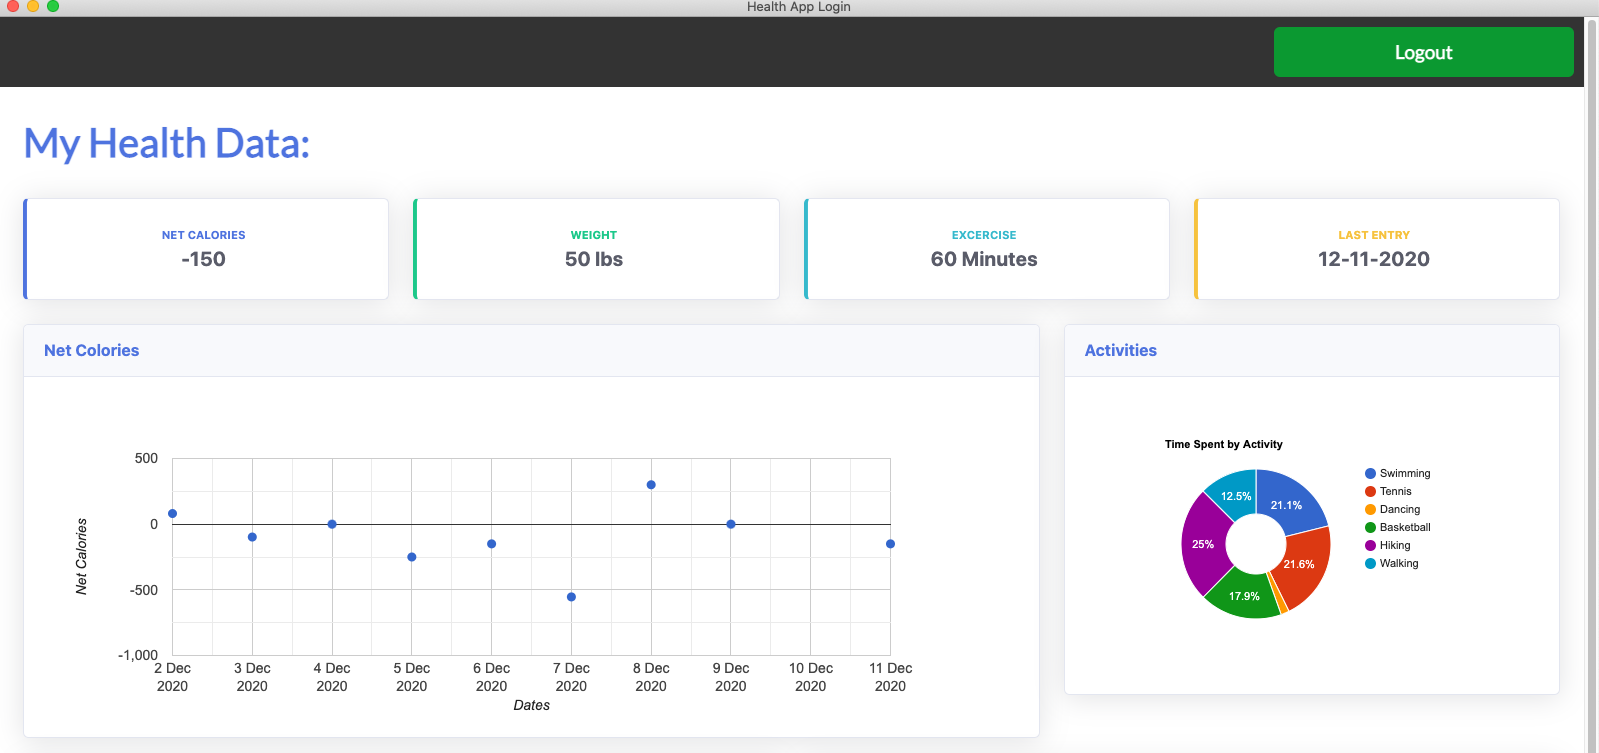
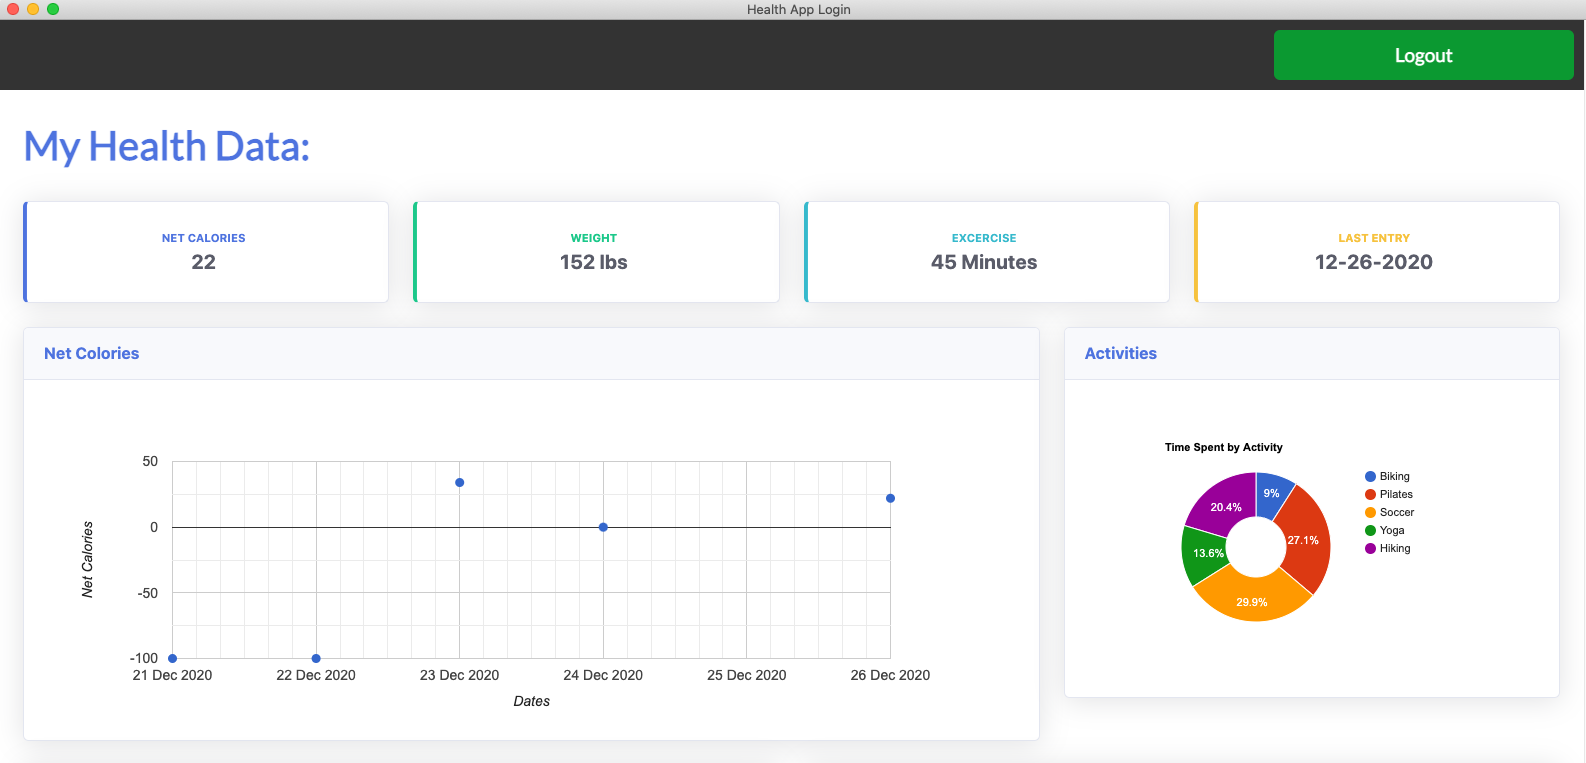
readme update

diff --git a/readme.md b/readme.md
@@ -21,9 +21,11 @@ Uses MongoDB Atlas to store user data.
 
 ## Walkthrough 
 
-<img src="public/images/dashboard1.png" width="600">
-<img src="public/images/dashboard2.png"  width="600">
+
 <img src="public/images/login.png"  width="600">
 <img src="public/images/create-account.png"  width="600">
 <img src="public/images/forgot-password.png" width="600">
-
+<img src="public/images/dashboard1.png" width="600">
+<img src="public/images/dashboard2.png"  width="600">
+<img src="public/images/dashboard3.png"  width="600">
+<img src="public/images/dashboard4.png"  width="600">
